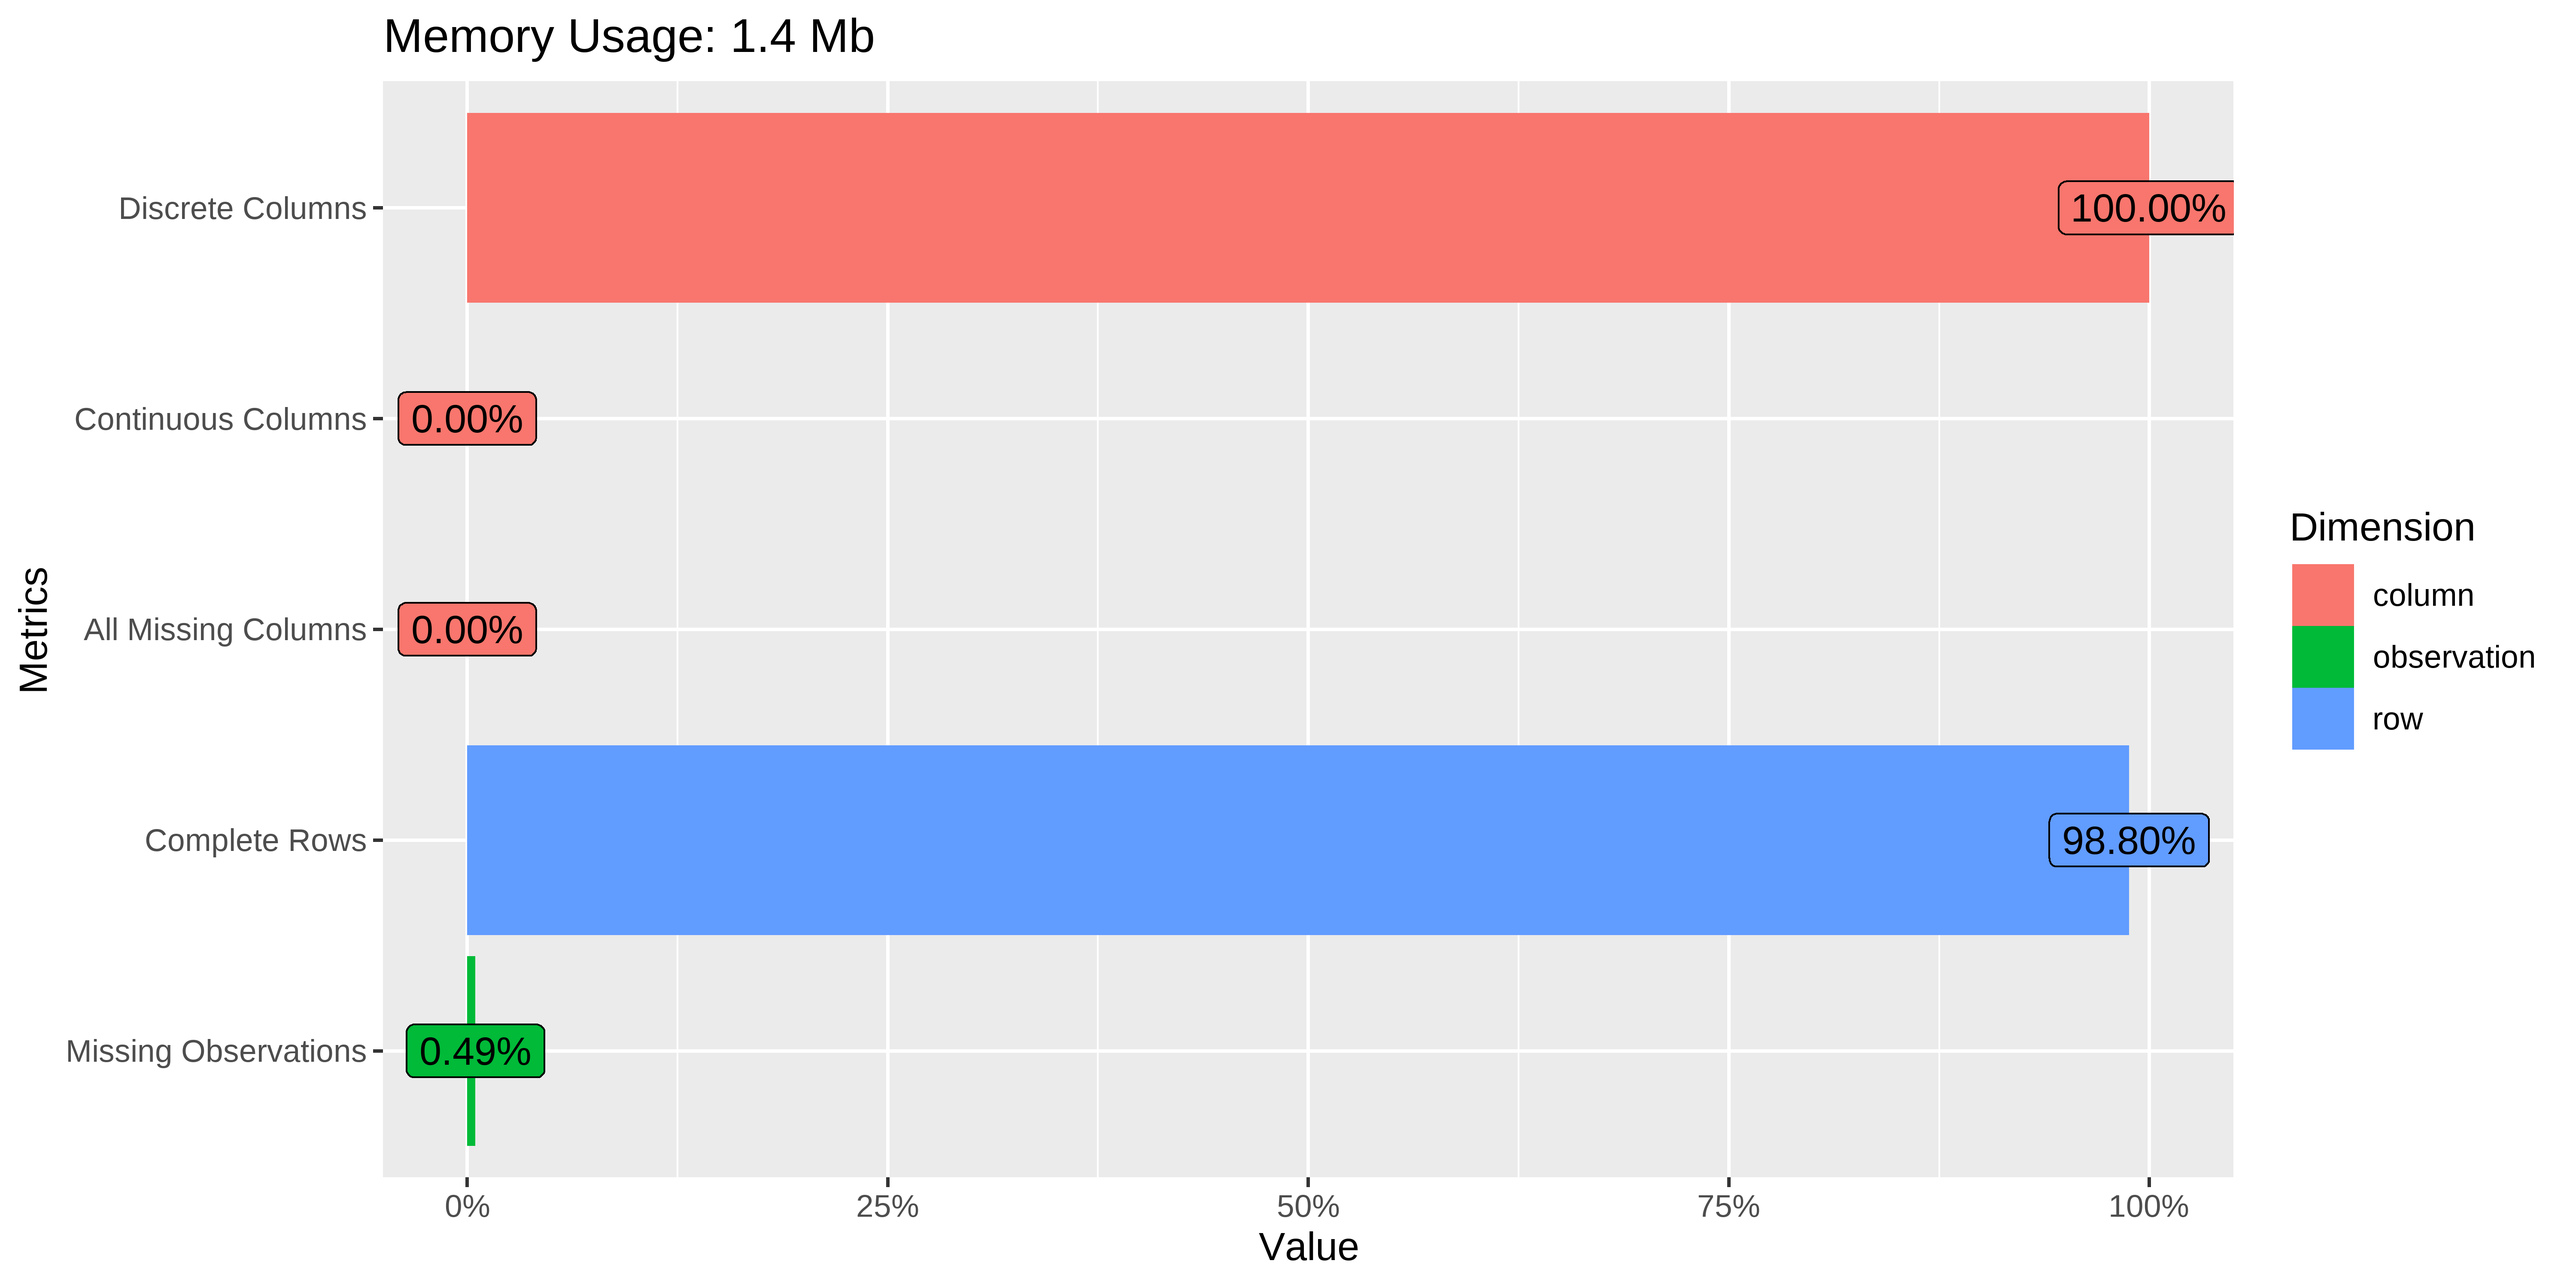
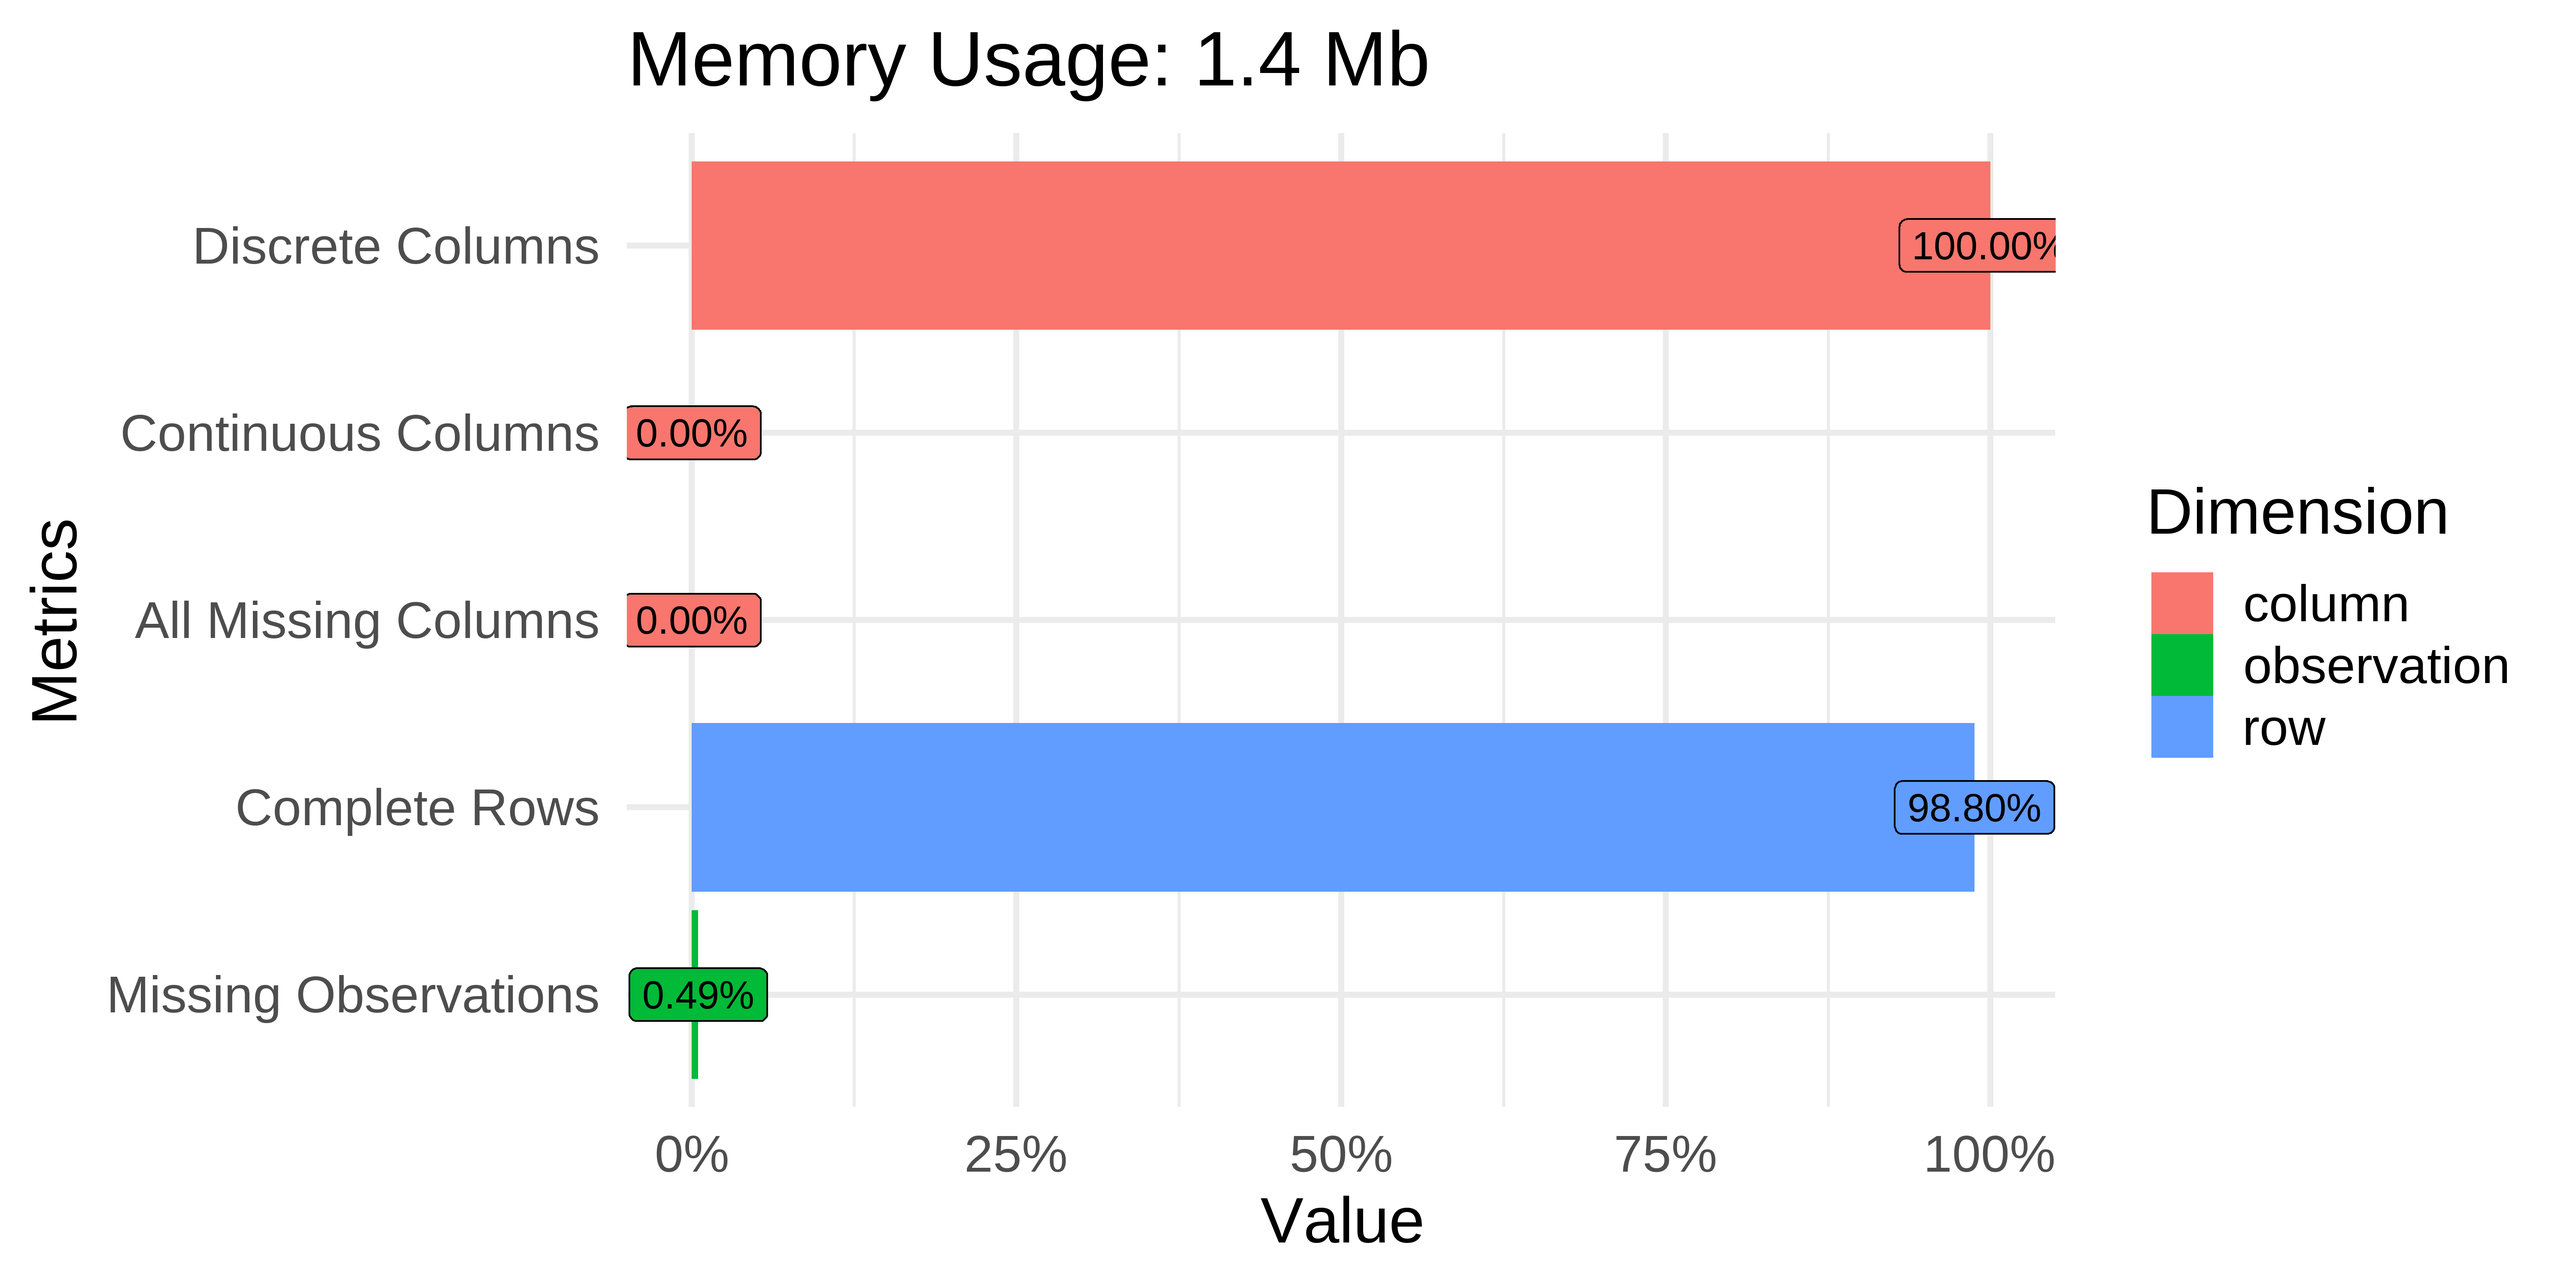
update figures

diff --git a/index.html b/index.html
@@ -82,7 +82,7 @@ class: center, middle, inverse, title-slide
 
 - Google published all of their jobs at [https://careers.google.com/](https://careers.google.com/). 
 
-- The data are collected using Selenium by scraping all of the jobs text for Google Career site and provided in [kaggle.com](https://www.kaggle.com/niyamatalmass/google-job-skills?). 
+- The data are collected using Selenium by scraping all of the jobs text from the Google Career site and provided in [kaggle.com](https://www.kaggle.com/niyamatalmass/google-job-skills?) by [Niyamat Ullah](https://www.kaggle.com/niyamatalmass). 
 
 - Available variables
 
@@ -105,7 +105,7 @@ class: center, middle, inverse, title-slide
 
 ```r
 df &lt;- read_csv("job_skills.csv")
-plot_intro(df)
+plot_intro(df, ggtheme = theme_minimal(base_size = 18))
 ```
 
 &lt;img src="analysis_files/figure-html/read_data-1.png" width="65%" style="display: block; margin: auto;" /&gt;
@@ -116,7 +116,7 @@ plot_intro(df)
 
 
 ```r
-plot_missing(df)
+plot_missing(df, ggtheme = theme_minimal(base_size = 18))
 ```
 
 &lt;img src="analysis_files/figure-html/missing_values-1.png" width="65%" style="display: block; margin: auto;" /&gt;
@@ -189,8 +189,8 @@ df &lt;- df %&gt;% filter(Company=="Google") %&gt;% select(-Company)
 ```r
 ggplot(data=df) + geom_bar(aes(x=reorder(Category, Category, function(x) length(x))),
                   fill=daytonred, position=position_dodge(width=1)) + 
-                  coord_flip() + theme(legend.position = "none", text = element_text(size = 18)) +
-                  labs(x="Category", y="Number of Jobs") + theme_minimal()
+                  coord_flip() + theme(legend.position = "none") +
+                  labs(x="Job Category", y="Number of Jobs") + theme_minimal(base_size = 18)
 ```
 
 &lt;img src="analysis_files/figure-html/job_categories-1.png" width="65%" style="display: block; margin: auto;" /&gt;
@@ -204,8 +204,8 @@ ggplot(data=df) + geom_bar(aes(x=reorder(Category, Category, function(x) length(
 titles &lt;- sort(table(df$Title), decreasing = T)[1:20]
 df1 &lt;- data.frame(titles)
 ggplot(data=df1, aes(x=reorder(Var1, Freq), y=Freq)) + geom_bar(stat="identity", fill=daytonred, 
-  position=position_dodge(width=1)) + coord_flip() + theme(legend.position = "none", 
-  text = element_text(size = 18)) + labs(x="Title", y="Number of Jobs") + theme_minimal()
+  position=position_dodge(width=1)) + coord_flip() + theme(legend.position = "none") + 
+  labs(x="Title", y="Number of Jobs") + theme_minimal(base_size = 26)
 ```
 
 &lt;img src="analysis_files/figure-html/job_titles-1.png" width="65%" style="display: block; margin: auto;" /&gt;
@@ -219,8 +219,8 @@ ggplot(data=df1, aes(x=reorder(Var1, Freq), y=Freq)) + geom_bar(stat="identity",
 locations &lt;- sort(table(df$Location), decreasing = T)[1:20]
 df2 &lt;- data.frame(locations)
 ggplot(data=df2, aes(x=reorder(Var1, Freq), y=Freq)) + geom_bar(stat="identity", fill=daytonred, 
-  position=position_dodge(width=1)) + coord_flip() + theme(legend.position = "none", 
-  text = element_text(size = 18)) + labs(x="Top 20 Popular Locations", y="Number of Jobs") + theme_minimal()
+  position=position_dodge(width=1)) + coord_flip() + theme(legend.position = "none") +
+  labs(x="Top 20 Popular Locations", y="Number of Jobs") + theme_minimal(base_size = 18)
 ```
 
 &lt;img src="analysis_files/figure-html/job_locations-1.png" width="65%" style="display: block; margin: auto;" /&gt;
@@ -233,8 +233,8 @@ ggplot(data=df2, aes(x=reorder(Var1, Freq), y=Freq)) + geom_bar(stat="identity",
 
 ```r
 ggplot(data=df3, aes(x=reorder(Degree, Count), y=Count)) + geom_bar(stat="identity", fill=daytonred,
-      position=position_dodge(width=1)) + coord_flip() + theme(legend.position = "none", 
-      text = element_text(size = 18)) + labs(x="Degree", y="Number of Jobs") + theme_minimal()
+      position=position_dodge(width=1)) + coord_flip() + theme(legend.position = "none") +
+      labs(x="Degree", y="Number of Jobs") + theme_minimal(base_size = 18)
 ```
 
 &lt;img src="analysis_files/figure-html/job_degrees-1.png" width="65%" style="display: block; margin: auto;" /&gt;
@@ -247,8 +247,8 @@ ggplot(data=df3, aes(x=reorder(Degree, Count), y=Count)) + geom_bar(stat="identi
 
 ```r
 ggplot(data=df4, aes(x=reorder(Year, Count), y=Count)) + geom_bar(stat="identity", fill=daytonred,
-      position=position_dodge(width=1)) + coord_flip() + theme(legend.position = "none", 
-      text = element_text(size = 18)) + labs(x="Years of Experiences", y="Number of Jobs") + theme_minimal()
+      position=position_dodge(width=1)) + coord_flip() + theme(legend.position = "none") +
+      labs(x="Year of Experiences", y="Number of Jobs") + theme_minimal(base_size = 18)
 ```
 
 &lt;img src="analysis_files/figure-html/exp_years-1.png" width="65%" style="display: block; margin: auto;" /&gt;
@@ -261,8 +261,8 @@ ggplot(data=df4, aes(x=reorder(Year, Count), y=Count)) + geom_bar(stat="identity
 
 ```r
 ggplot(data=df5, aes(x=reorder(Language, Count), y=Count)) + geom_bar(stat="identity", fill=daytonred,
-      position=position_dodge(width=1)) + coord_flip() + theme(legend.position = "none", 
-      text = element_text(size = 18)) + labs(x="Programming Language", y="Number of Jobs") + theme_minimal()
+      position=position_dodge(width=1)) + coord_flip() + theme(legend.position = "none") +
+      labs(x="Programming Language", y="Number of Jobs") + theme_minimal(base_size = 18)
 ```
 
 &lt;img src="analysis_files/figure-html/job_languages-1.png" width="65%" style="display: block; margin: auto;" /&gt;
@@ -277,8 +277,8 @@ In the end, I am curious how popular certain subjects are when looking for a job
 
 ```r
 ggplot(data=df6, aes(x=reorder(Subject, Count), y=Count)) + geom_bar(stat="identity", fill=daytonred,
-      position=position_dodge(width=1)) + coord_flip() + theme(legend.position = "none", 
-      text = element_text(size = 18)) + labs(x="Subject", y="Number of Jobs") + theme_minimal()
+      position=position_dodge(width=1)) + coord_flip() + theme(legend.position = "none") +
+      labs(x="Subject", y="Number of Jobs") + theme_minimal(base_size = 18)
 ```
 
 &lt;img src="analysis_files/figure-html/job_subjects-1.png" width="65%" style="display: block; margin: auto;" /&gt;
@@ -316,6 +316,8 @@ ggplot(data=df6, aes(x=reorder(Subject, Count), y=Count)) + geom_bar(stat="ident
 
 - The formatting of slides is provided by Dr. Fadel M. Megahed [@fmegahed](https://github.com/fmegahed). 
 ]
+
+- The example data are provided in [kaggle.com](https://www.kaggle.com/niyamatalmass) by [Niyamat Ullah](https://www.kaggle.com/niyamatalmass). 
 
 .pull-right[
 &lt;img src="https://www.verouden.net/slides/presentation-xaringan/img/questions.gif" width="350" height="350" /&gt;
